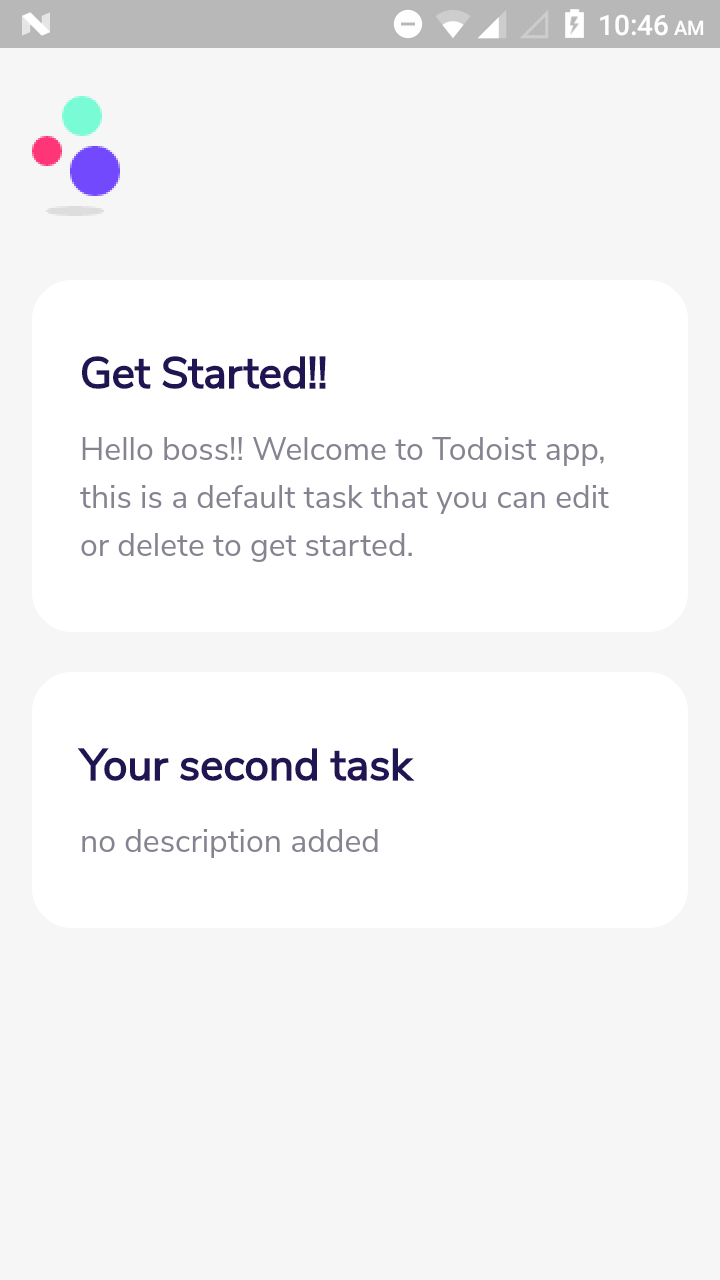
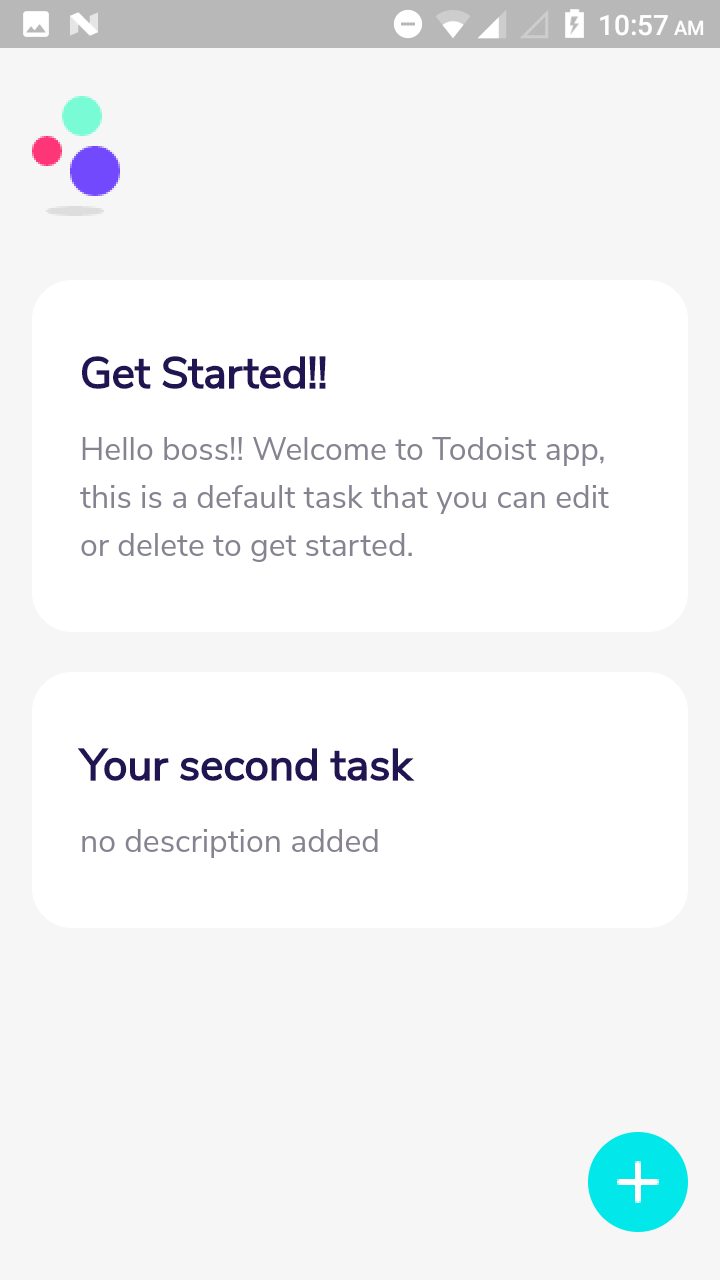
Adding a floating button at the right corner of the screen

Changed region(s): [[0.7944, 0.875, 0.9778, 0.9688], [0.0306, 0.0, 0.1528, 0.0312], [0.8861, 0.0, 0.9472, 0.0312]]

diff --git a/lib/pages/home.dart b/lib/pages/home.dart
@@ -40,6 +40,21 @@ class _MyHomePageState extends State<MyHomePage> {
                     )
                   ],
                 ),
+                Positioned(
+                  bottom: 0.0,
+                  right: 0.0,
+                  child: Container(
+                    height: 50.0,
+                    width: 50.0,
+                    decoration: BoxDecoration(
+                      color: Color(0xFF02e7ea),
+                      borderRadius: BorderRadius.circular(25.0)
+                    ),
+                    child: Image(
+                      image: AssetImage('assets/images/add_icon.png'),
+                    )
+                  ),
+                )
               ],
             ),
           ),

diff --git a/README.md b/README.md
@@ -52,6 +52,8 @@ body: Center(
 
 - add a **widgets** TaskCardWidget  
 with title and description of task to display in card like strucutre  
-refer to [this](./lib/widgets.dart) file.
+refer to [this](./lib/widgets.dart) file.  
+now simply stack the floating button at the bottom of the screen.  
 **Output**
 ![Task Card Widget](./screenshots/taskCardWidget.png)
+
